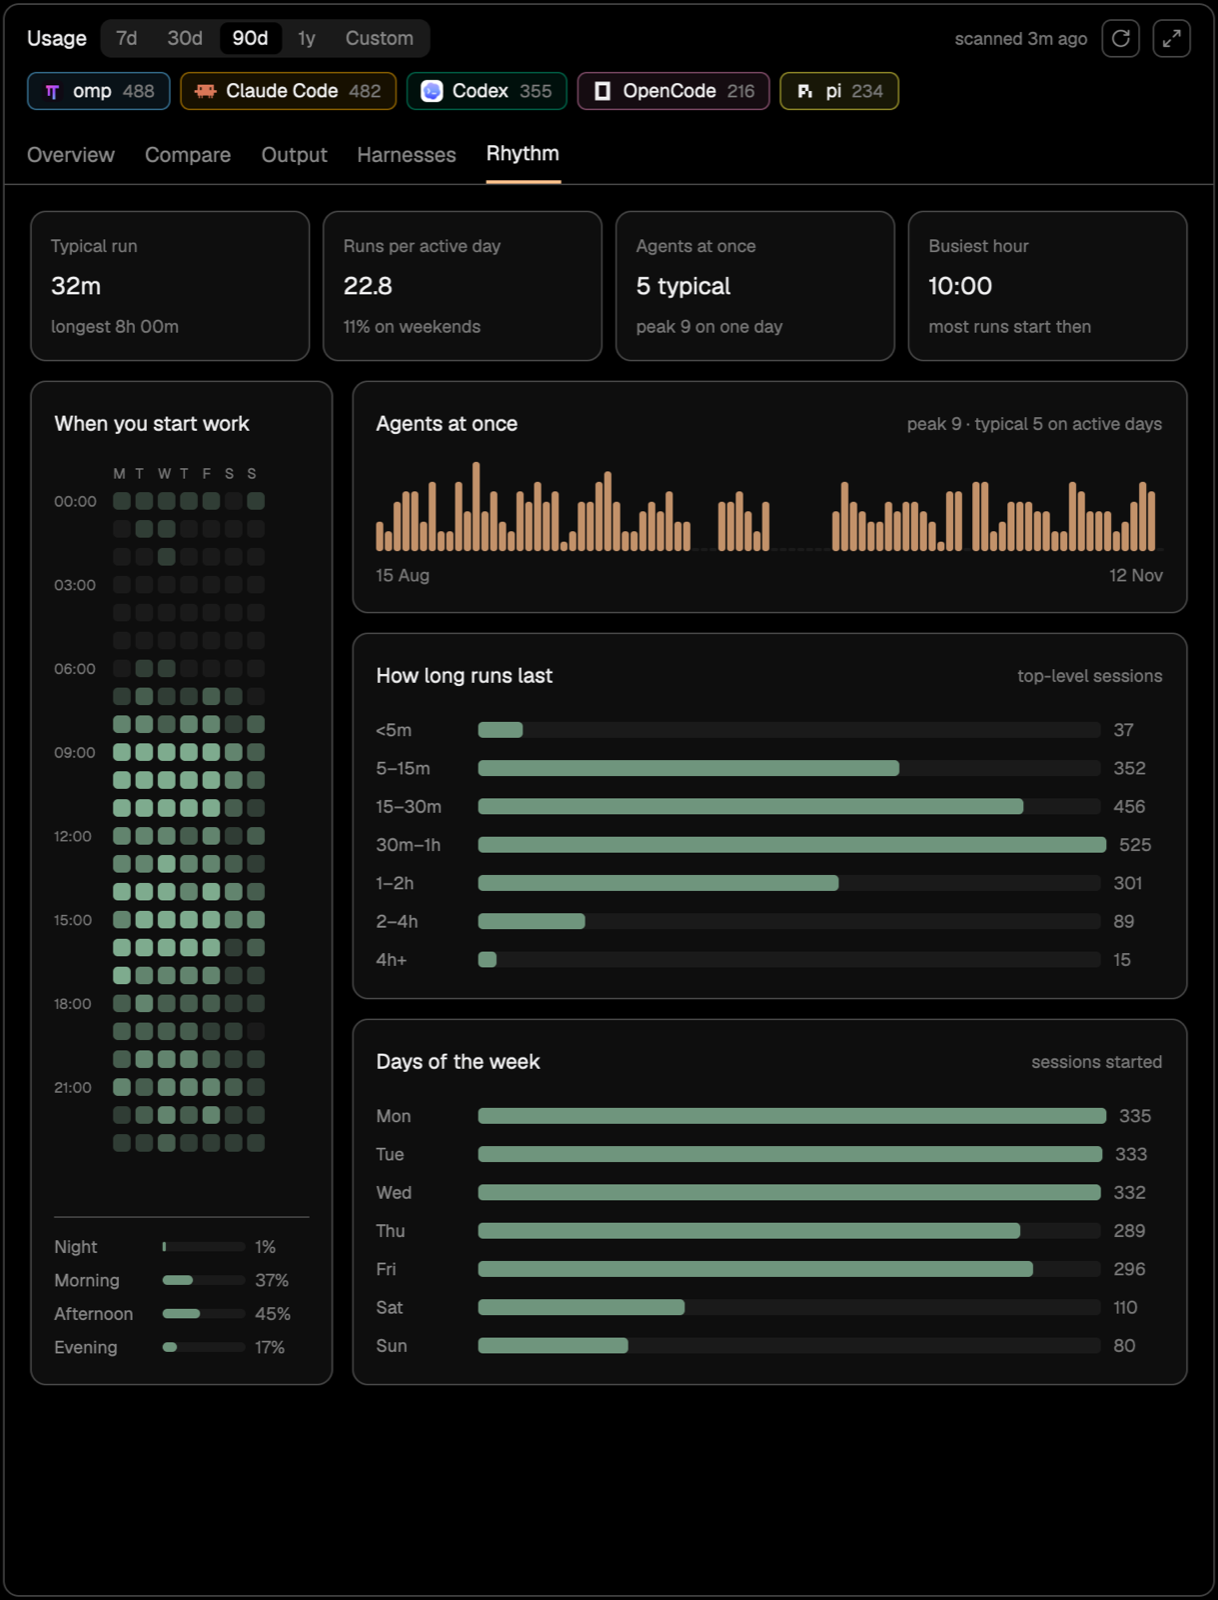
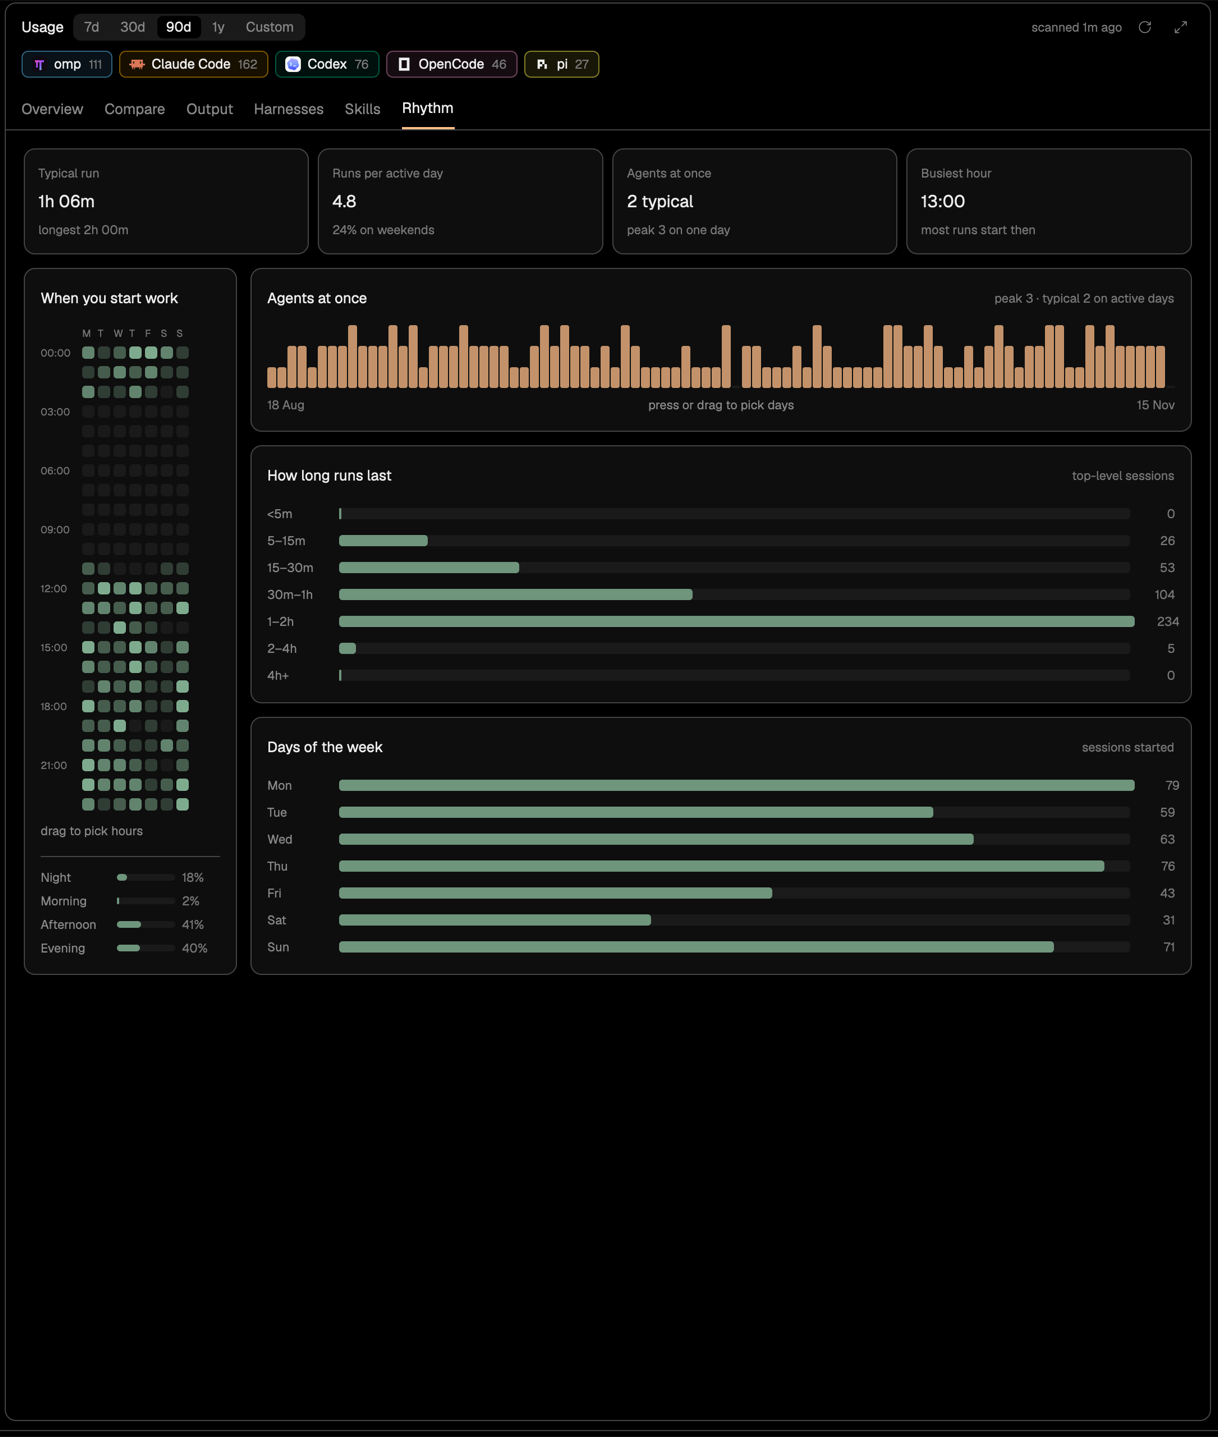
docs: README's Usage screenshots show the redesign, and Skills gets its own
All six from made-up data (the README's promise): Overview's new tiles and day-by-day chart, Compare's strengths by
kind of work, Harnesses' area chart, Output, Skills with a skill open, Rhythm. The note on pruned logs moves below
the table.

Changed region(s): [[0.0, 0.0, 0.9984, 0.8573], [0.0, 0.9798, 0.9984, 1.0], [0.78, 0.0, 0.9984, 0.0306]]

diff --git a/README.md b/README.md
@@ -64,8 +64,8 @@ leaves your machine.
 <tr>
 <td width="50%"><img src="docs/images/usage-overview.png" alt="Usage overview"><br><b>Overview.</b> Sessions, cost, agent
 commits and clean runs against the period before; the period day by day; where the spend went, by project.</td>
-<td width="50%"><img src="docs/images/usage-compare.png" alt="Usage compare"><br><b>Compare.</b> Clean-run rate (95%
-range), cost per clean run and commits, per harness and model; what each is best at, by kind of work.</td>
+<td width="50%"><img src="docs/images/usage-compare.png" alt="Usage compare"><br><b>Compare.</b> What each harness and
+model is best at, by kind of work; above it, clean-run rate, cost per clean run and commits per pair.</td>
 </tr>
 <tr>
 <td><img src="docs/images/usage-harnesses.png" alt="Usage harnesses"><br><b>Harnesses.</b> Tokens, models and effort
@@ -76,10 +76,13 @@ their cost.</td>
 <tr>
 <td><img src="docs/images/usage-rhythm.png" alt="Usage rhythm"><br><b>Rhythm.</b> When you work, agents at once, run
 lengths.</td>
-<td valign="top">Only this machine's logs count. Claude Code prunes transcripts after 30 days (<code>cleanupPeriodDays</code>);
-Usage keeps every session it has read.</td>
+<td><img src="docs/images/usage-skills.png" alt="Usage skills"><br><b>Skills.</b> Each skill against the same
+harnesses' sessions without it: commits, cost per commit, median cost, clean runs; by harness and model.</td>
 </tr>
 </table>
+
+Only this machine's logs count. Claude Code prunes transcripts after 30 days (`cleanupPeriodDays`); Usage keeps every
+session it has read.
 
 ### Sidebar
 
